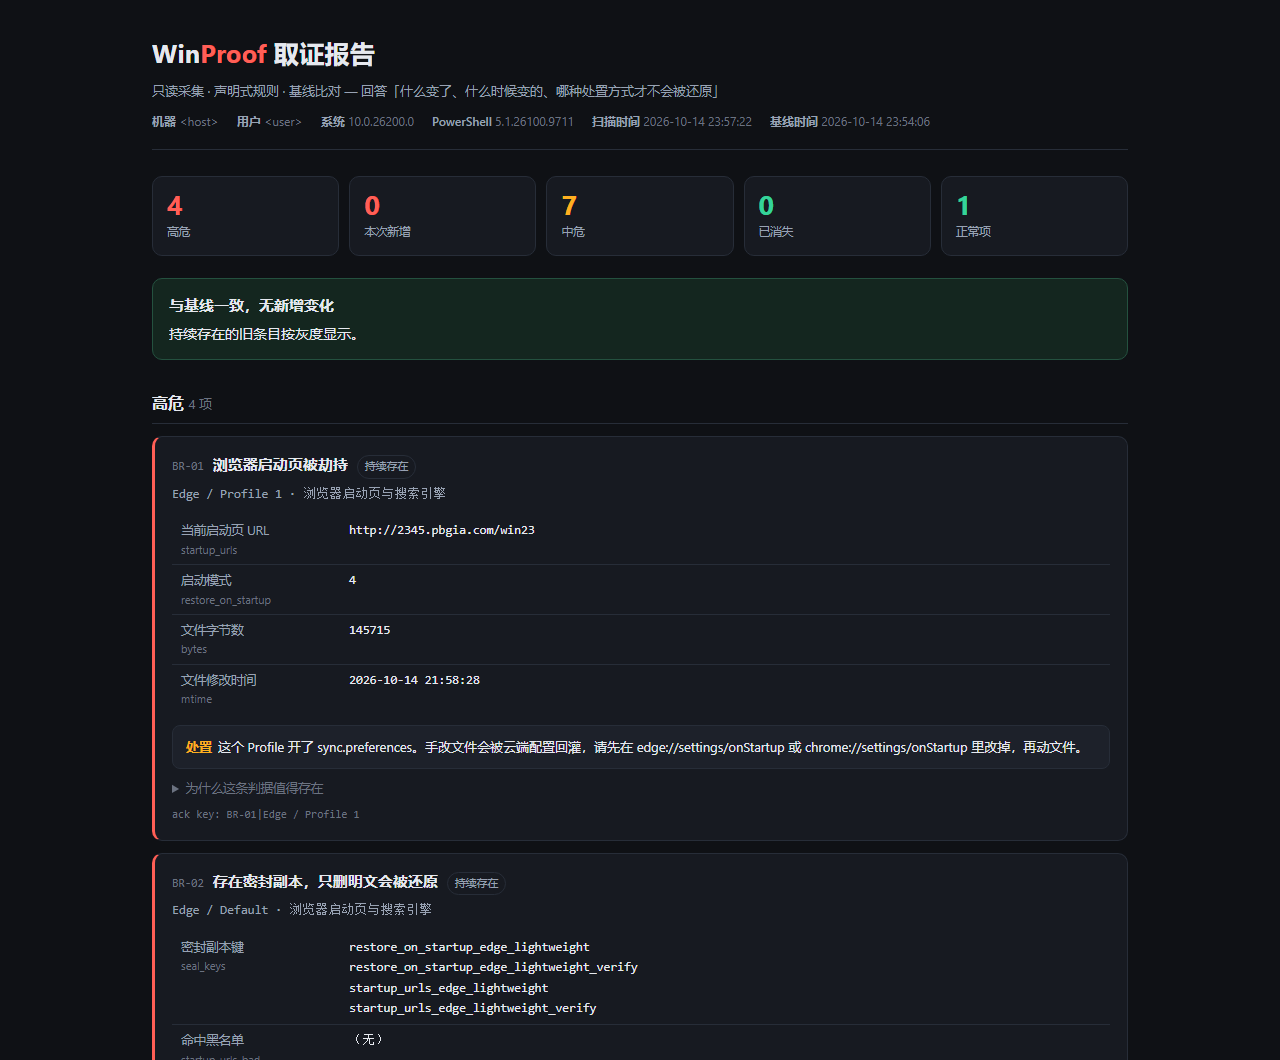
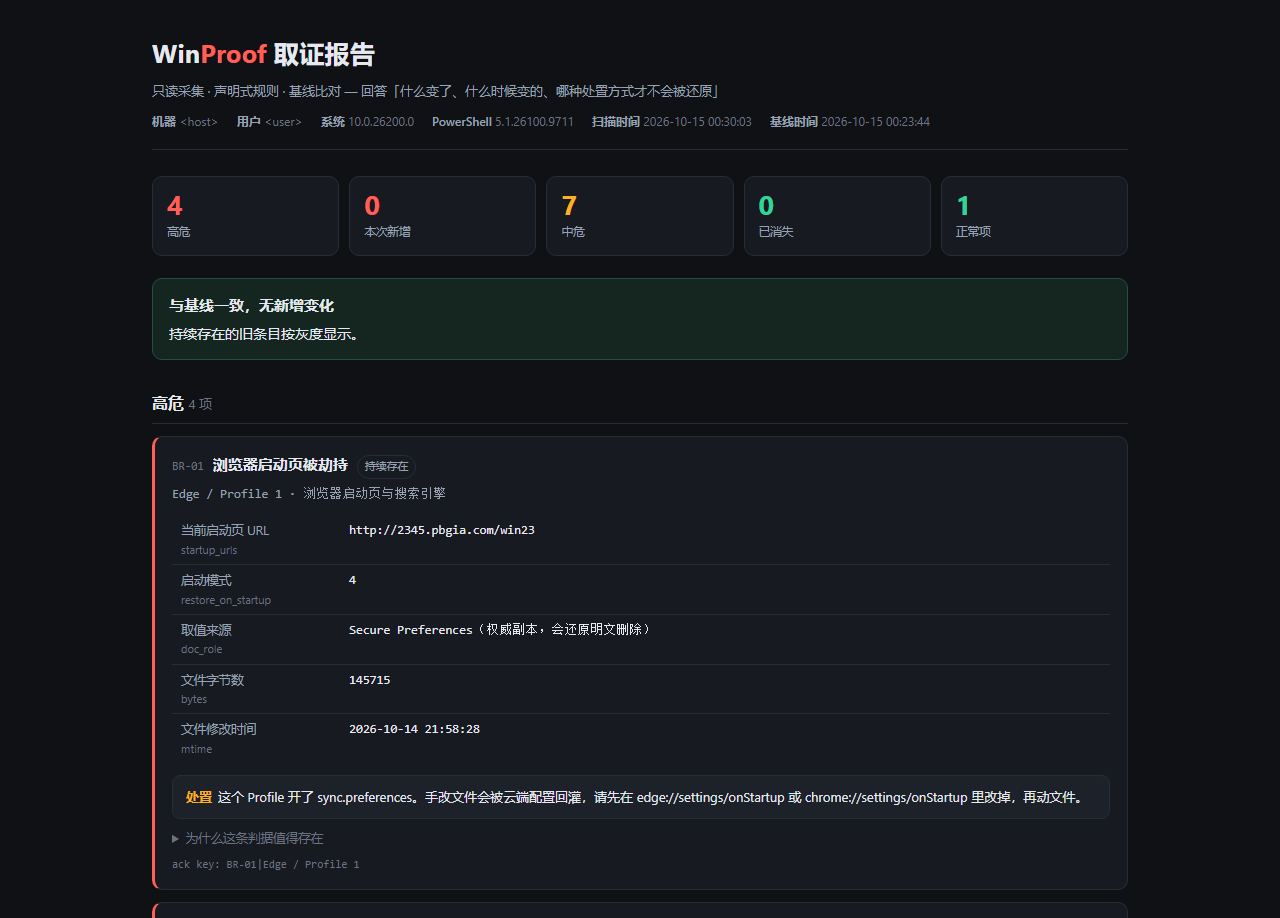
ci: run the whole chain on windows-latest, and document what the fixtures prove
The workflow is the reason the suite had to stop depending on one machine: probes ->
baseline -> scan -> report -> selftest -> hygiene -> verify, plus a step that asserts
a rescan right after capturing a baseline reports zero NEW. That last check is the
early warning for fingerprint jitter from anything not grounded in fact.

It has not executed yet - there is no remote and nothing has been pushed - so the
file and the README both say so instead of implying a green badge.

README gains pitfalls 14-16 (the clean-box blind spot, the plain-only false negative,
the untranslated evidence field), the 67-assertion map, and a contributing note that a
rule which cannot hit on a real machine must get a fixture row that does.

diff --git a/README.md b/README.md
@@ -80,6 +80,7 @@ probes/    只读采集事实，不做任何判断
 rules/     纯 JSON 数据，没有代码、没有 eval
 engine.ps1 声明式谓词解释器 + 基线 diff
 report.ps1 生成自包含静态 HTML，没有服务器
+tests/     提交的合成采集夹具：判据的可执行定义
 ```
 
 **规则不是代码，这是本项目的核心决策。**
@@ -177,30 +178,74 @@ Edge 在 `session` 下另存 `startup_urls_edge_enclave` / `_verify`（另一台
 **13. `-Value [string]$x` 在参数模式下不是表达式。**
 `[string]` 被当成字面量 token，值变成字符串 `"[string]@{...}.group"`，
 后续哈希查表全部落空 → 报告里每张卡片的分组名静默为空。必须写 `-Value ([string]$x)`。
-这个 bug 是靠截图发现的，现在 `selftest [9b]` 直接断言 `group_title` 非空且不含 `@{`。
+这个 bug 是靠截图发现的，现在 `selftest [12]` 直接断言 `group_title` 非空且不含 `@{`。
+
+**14. 一台干净的机器测不到那四条最危险的规则。**
+`PS-03`（ELAM）、`PS-04`（hosts）、`PS-05`（IFEO）、`PS-06`（LSP）在本机命中 0 条——这是正确结果，
+但也意味着真机自检永远不会执行它们：谓词写反了也只有出事那天才知道。
+`tests/fixtures/facts-persistence.json` 因此造了这四种状态各一份，
+[8] 断言 7 条驻留规则**全部**命中且命中集合与清单完全一致。
+同理 `BR-01/BR-05` 的"sync 开/关"两个建议分支、`PS-01` 的三个处置分支，都在夹具里各有一个专属对象。
+
+**15. 锚定文档选了却没用：只有明文 `Preferences` 的 Profile 被静默放过。**
+`New-BrowserSubjects` 先算出 `$anchor = Secure Preferences ?? Preferences`，
+之后却只在 `$null -ne $secure` 时读取字段——于是没有 `Secure Preferences` 的 Profile，
+即使明文里写着被劫持的 `session.startup_urls`，`BR-01` 也不会报。
+这是**写夹具时才暴露的假阴性**：`Chrome / Profile 3` 那条 plain-only 记录唯一的用途就是打这个点。
+修法是按锚定文档取值，同时把密封键/孤立签名继续锁在 secure 文档里（它们本来就只存在于那儿），
+所以 plain-only Profile 不可能凭空报出"存在密封副本"。
+`BR-01`/`BR-03` 的 `doc_role=secure` 前置条件也一并去掉，并把 `doc_role` 放进证据——
+读者需要知道这个值是从哪份文档读来的，因为"手改会不会被还原"取决于它。
+
+**16. 规则可以引用一个渲染层没翻译的字段。**
+`PS-03/05/06` 的 `show` 里有 `name`，但模板的标签表没有它。
+本机上这三条规则命中 0 条，所以真机报告**永远看不到**这个空格子——
+直到某台机器真的中 ELAM 为止。`verify.js` 现在遍历 `rules/*.json` 的所有 `show` 字段，
+断言每一个都在模板标签表里有中文条目，命中与否无关。
 
 ---
 
-## 已知答案测试：46 PASS / 0 FAIL
+## 已知答案测试：67 PASS / 0 FAIL
 
 判据先于扫描逻辑定义。跑 `powershell -File tools\selftest.ps1`：
 
 ```
-[1]  从真机采集建立基线                          [6]  驻留规则 vs 从原始事实独立重算的谓词
-[2]  同一份事实复扫：不得有任何 CHANGED          [7]  countGte 的标量语义（曾导致全员误报）
-[3]  夹具 B：把 URL 注回 Chrome → NEW + 旧结论 RESOLVED
-[4]  夹具 C：被劫持文件再次被写 → CHANGED 而非 NEW   [8]  植入一条假残留 → 必须 NEW，且不得吞掉邻居
-[5]  acknowledge 只降级不删规则                  [9]  未知探针名必须抛错，不许静默丢事实
-                                                [9b] 分组名/标题/指纹必须完整
-                                                [10] 每条"残留"都要独立复核为确实不存在
+[1]  浏览器夹具：命中集合必须逐条等于清单            [9]  countGte 的标量语义，正反两个方向
+[2]  7 条浏览器规则全部被触发                        [10] 植入一条假残留 → 必须 NEW，且不得吞掉邻居
+[3]  同一份事实复扫：不得有任何 CHANGED              [11] 未知探针名必须抛错，不许静默丢事实
+[4]  夹具 B：修好又回来 → NEW + 旧结论 RESOLVED      [12] 分组名/标题/建议/指纹必须完整
+[5]  夹具 C：文件再次被写 → CHANGED 而非 NEW         [13] 真机驻留事实 vs 独立重算的谓词
+[6]  夹具 D：只点亮引用了该字段的规则                [14] 每条"残留"都要独立复核为确实不存在
+[7]  acknowledge 只降级不删规则
+[8]  驻留夹具：7 条规则全触发，含干净机器上闲置的那 4 条
 ```
 
-[6] 和 [10] 是关键：**期望集合不是抄下来的快照，而是用独立逻辑从原始事实重算的。**
+**[1]–[12] 跑在 `tests/fixtures/` 里两份提交的合成采集上，换任何一台 Windows 结果都一样**——
+包括一台从没被劫持过的机器、一台没装浏览器的机器、以及 CI 里的一次性 runner。
+[13][14] 跑在 `out\` 下的真机采集上，缺文件时输出 `SKIP` 而不是失败（当前 0 SKIP）。
+
+夹具不是快照。清单 `$wantBrowser` / `$wantPers` 把每条规则映射到"这个夹具应当命中的对象集合"，
+`Check-Manifest` 双向断言：既不许少，也不许出现清单之外的结论（`no finding outside the manifest`）。
+所以往 `rules/` 里加一条规则，如果它在夹具上意外点亮了别的对象，测试会红。
+
+[13] 是关键的另一半：**期望集合不是抄下来的快照，而是用独立逻辑从原始事实重算的。**
 所以这台机器明天多一条或少一条启动项，测试不会红；
 但哪条规则的实现和它声称的判据漂移了，测试会红。
 
-[10] 专门用来防止第 8 条那个假阳性复发——任何被 `PS-01` 称为残留的行，
+[14] 专门用来防止第 8 条那个假阳性复发——任何被 `PS-01` 称为残留的行，
 都会在测试里重新 `Test-Path` 一次，且裸命令名直接判为缺陷。
+
+### CI
+
+`.github/workflows/ci.yml` 在 `windows-latest` 上按真实顺序跑完整链路：
+两个探针 → `engine -Mode baseline` → `engine -Mode scan` → `report.ps1` → `selftest.ps1` → `hygiene.ps1` → `node tools/verify.js`。
+
+其中一步是契约断言而不是"没报错就行"：**刚建立基线立刻复扫，`counts.NEW` 必须为 0**。
+这一条如果哪天变红，说明指纹计算引入了与事实无关的抖动（比如把时间戳算进了证据），
+而那正是"这个工具还能不能告诉你什么变了"的根基。
+
+> 该 workflow **尚未执行过一次**（仓库还没有 remote，也没推送过）。
+> 首次推送后如果它和预期不符，以 CI 日志为准，不要以这段描述为准。
 
 另有 `tools/layout-probe.html`：把报告塞进 360–1280px 的 iframe 里量 `scrollWidth`，用无头 Edge 跑完——
 
@@ -234,8 +279,10 @@ Auto 启动且不在 Windows 目录的服务、`Group=Early-Launch` 的 ELAM 驱
 
 - **Windows only**，且依赖 PowerShell 5.1 自带的 `Get-AuthenticodeSignature` / `Get-ScheduledTask`。
 - 浏览器规则目前只覆盖启动页/搜索引擎这一族劫持，没覆盖扩展策略、计划任务式重启器。
-- `PS-05`（IFEO）与 `PS-06`（LSP）的判据按实测结构实现，但本机没有可命中的样本，
-  属于"写对了但没被打过"的规则。首版不为它们编造成功案例。
+- `PS-05`（IFEO）与 `PS-06`（LSP）的判据按实测结构实现，本机没有可命中的样本。
+  夹具 `tests/fixtures/facts-persistence.json` 里各有一条专门打中它们，所以**谓词逻辑是被执行过的**;
+  但"真实世界里长什么样"这一层仍然只有 ELAM 那条有本机历史证据（360 的 `360elam64.sys`），
+  IFEO 与 LSP 的样本描述来自公开案例而不是本机观察。首版不为它们编造成功案例。
 - 基线是**按机器**的：换一台机器、或你主动装了一批软件，`CHANGED` 会很多，那是正常的。
 - `domain_blocklist` 是子串匹配，你主动把 `so.com` 设成首页也会被报。
   正确处置是 `ack.bat` 标记为已知，而不是把规则调瞎。
@@ -256,8 +303,10 @@ won't stick (sealed copy present? `sync.preferences` on?).
   arriving from a pull request or an LLM can never become executable input. Zero injection surface.
 - **Fingerprints cover only the evidence a rule cites**, so unrelated file writes don't light up every
   rule on that object.
-- **14 rules, 46 known-answer assertions.** Expected hit sets are recomputed from raw facts by
-  independent logic rather than snapshotted, so the suite survives a machine that changes.
+- **14 rules, 67 known-answer assertions.** [1]–[12] run on committed synthetic captures, so they
+  give the same verdict on a machine that has never been hijacked; [13]–[14] re-derive expected hit
+  sets from the real facts by independent logic rather than snapshotting, so the suite survives a
+  machine that changes.
 - Ships as a self-contained static HTML report. No server, no dependencies beyond PowerShell 5.1.
 
 ---
@@ -269,10 +318,14 @@ won't stick (sealed copy present? `sync.preferences` on?).
 这个项目所有的可信度都来自"每条规则都能被复述成一次具体的观察"。
 
 ```bash
-powershell -File tools\selftest.ps1     # 46 PASS 才算过
-node tools\verify.js                    # 结构 + 脱敏
+powershell -File tools\selftest.ps1     # 67 PASS 才算过（夹具部分在任何 Windows 上都应一致）
+node tools\verify.js                    # 结构 + 标签覆盖 + 脱敏
 powershell -File tools\hygiene.ps1      # .bat 必须 CRLF；.ps1 必须纯 ASCII 或带 BOM
 ```
+
+新规则如果在本机打不中（干净机器上 `PS-03`~`PS-06` 命中 0 条是正常状态），
+请把它同时在 `tests/fixtures/` 里造一条能打中的记录，并在 `tools\selftest.ps1` 的清单里写上预期对象——
+否则这条规则永远不会被执行到。
 
 `hygiene.ps1` 拦的是两类在 Windows 上不会报错的坑：LF-only 的 `.bat` 会被 cmd 执行一半；
 无 BOM 的 `.ps1` 会被 PowerShell 5.1 按活动代码页解码，注释里的中文变成乱码字节，
